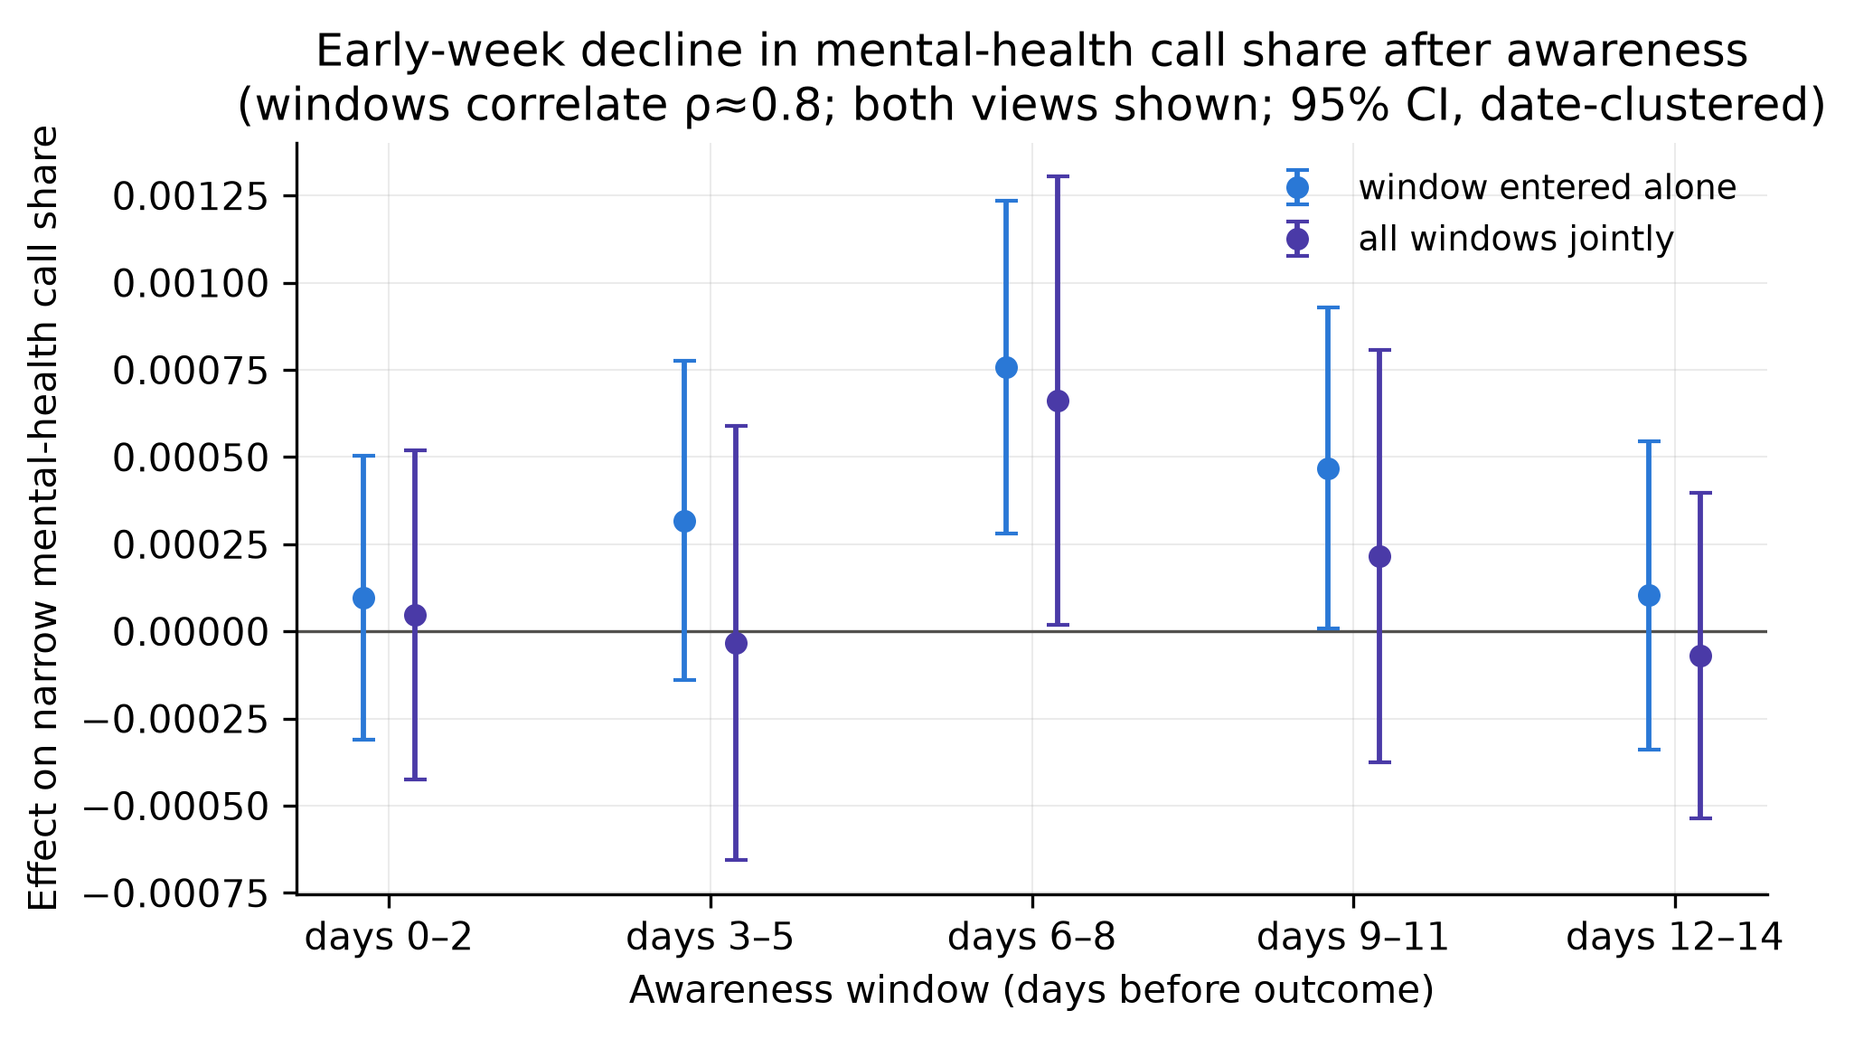
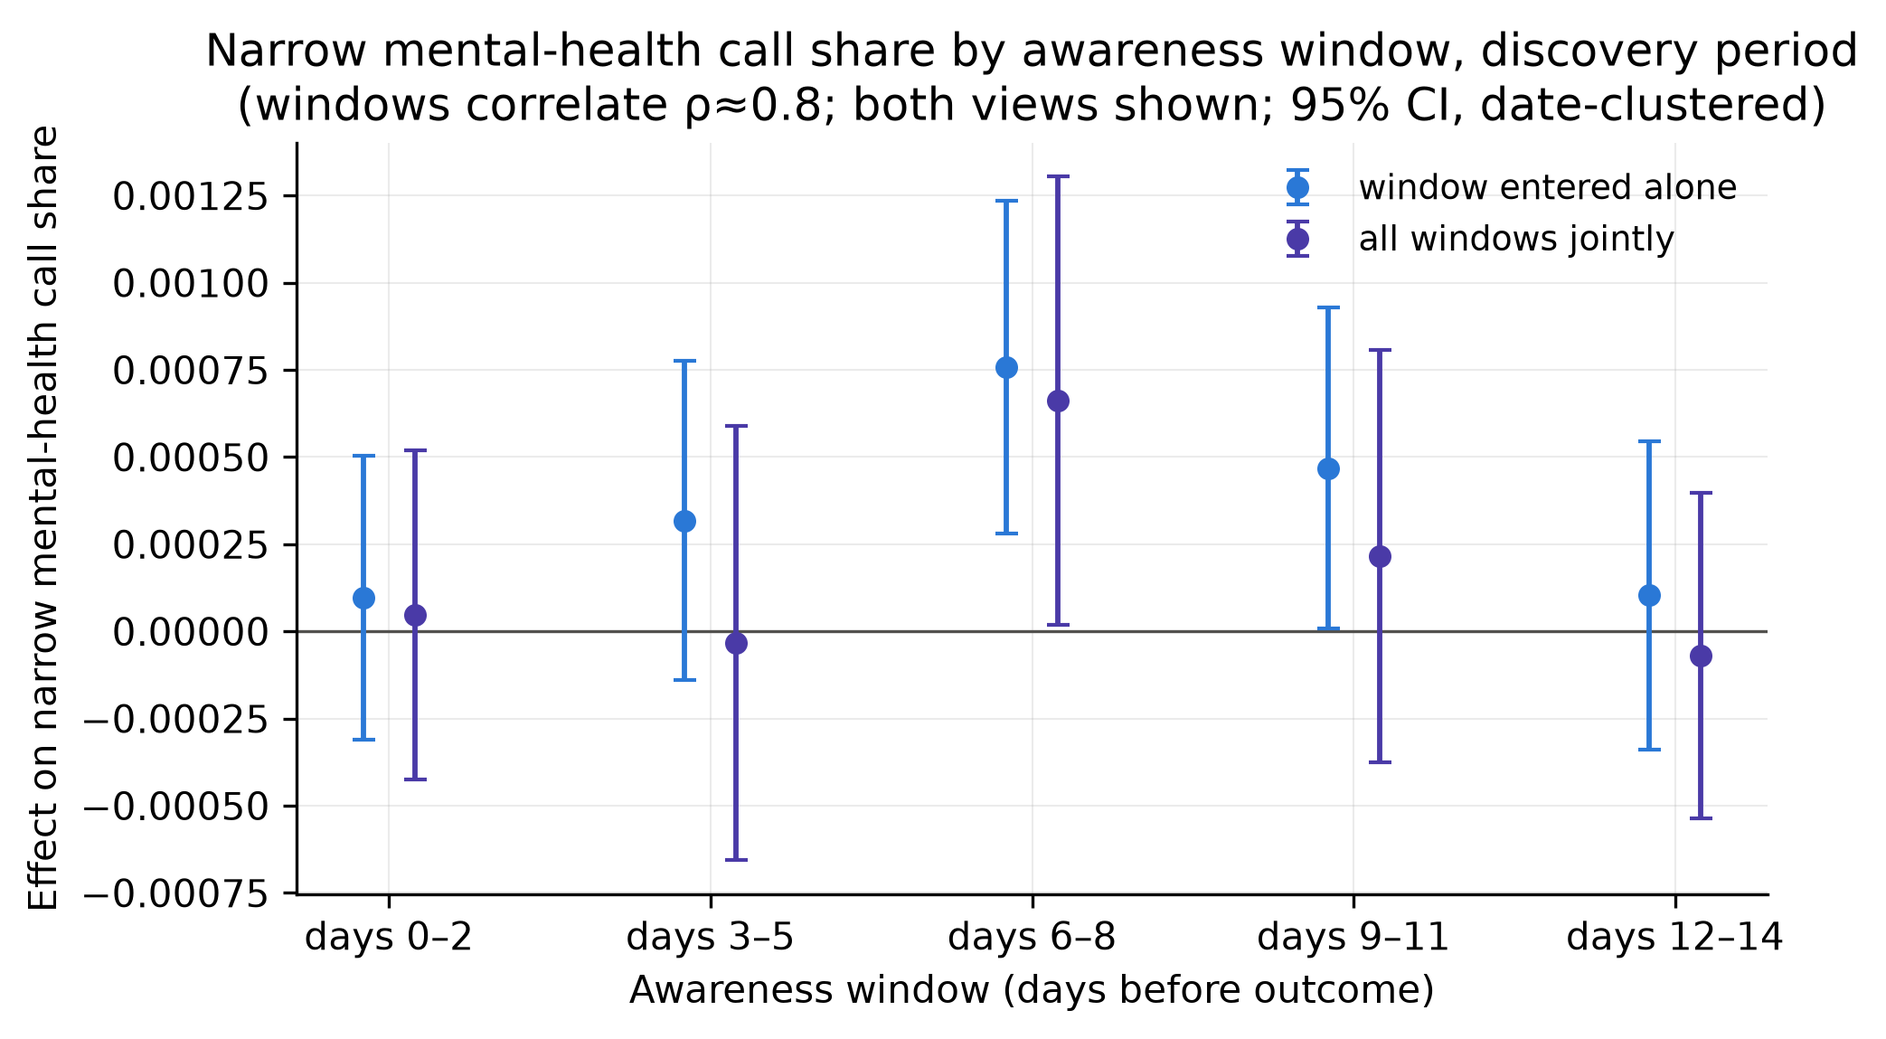
CP3 blind half acted on: PAPER.md's account of the record corrected (five incidents and what two of them shaped, the non-blind test window and second outcome disclosed in Methods, Deviations and Limitation 10, the anchor-shift null described as the gap-permuted placement, the calibration paragraph s

diff --git a/scripts/08_figures.py b/scripts/08_figures.py
@@ -141,7 +141,7 @@ ax.set_xticks(x, [wlabel[w] for w in wn["window"]])
 ax.set_ylabel("Effect on narrow mental-health call share")
 ax.set_xlabel("Awareness window (days before outcome)")
 ax.legend(frameon=False, fontsize=9)
-ax.set_title("Early-week decline in mental-health call share after awareness\n"
+ax.set_title("Narrow mental-health call share by awareness window, discovery period\n"
              "(windows correlate ρ≈0.8; both views shown; 95% CI, date-clustered)")
 save(fig, "fig3_windows")
 
@@ -172,7 +172,7 @@ for y_pos, (col, label) in zip(ys, order):
                     fontsize=8, color=color)
 ax.set_yticks(ys, [label for _, label in order])
 ax.set_xlabel("Effect of awareness (days 3–5 window) on call-type share")
-ax.set_title("The decline is specific to police-adjacent mental-health calls\n"
+ax.set_title("Outcome decomposition, days 3–5 window: effect of awareness by call type\n"
              "(each outcome estimated separately; 95% CI, date-clustered)")
 save(fig, "fig4_decomposition")
 

diff --git a/docs/PAPER.md b/docs/PAPER.md
@@ -31,7 +31,8 @@ arrested or killed to the communities that watch, read and hear about them. A bo
 of population research links exposure to police violence with worse self-reported
 mental health, higher psychological distress and higher psychiatric service use,
 concentrated among Black Americans and in the neighbourhoods policed most
-intensively.¹⁻⁴ The exposure in that literature is almost always an *incident* —
+intensively,¹⁻⁴ and with worse school outcomes for the young people who live
+there.¹⁴ ¹⁵ The exposure in that literature is almost always an *incident* —
 a killing in the respondent's state in the preceding months, a policing rate in the
 respondent's neighbourhood — and the outcome is almost always measured after a
 person has already sought care.
@@ -49,12 +50,17 @@ thirteen cities after the murder of George Floyd while gunshots detected by
 acoustic sensors rose, and attributed the gap between that response and the
 smaller responses to lower-profile killings to salience and media attention.⁶
 Attention, not incidence, is the mechanism those results point at, and neither
-study measured it.
+study measured it. Attention has been measured on its own terms — Wikipedia
+pageviews for earlier victims of police violence surged collectively after the
+murder of George Floyd⁹ — but not, to our knowledge, carried to a health outcome
+at the resolution of a day.
 
 The closest quantified antecedent on the health side is Das and colleagues, who
 found depression-related emergency department visits among African Americans
 rose by about 11% in the month of a police killing of an unarmed African American
-and the three months following, across 75 counties.⁷ Their design, like every
+and the three months following, across 75 counties⁷ — a class of finding whose
+sensitivity to how victims' armed status is coded has since been contested.⁸ Their
+design, like every
 administrative-outcome study we know of, works at the county-month. It therefore
 cannot say whether the response peaks on the first day or the twentieth, whether
 it is a sustained shift or a dip that rebounds, or whether what changed was
@@ -82,8 +88,12 @@ sample was examined, predicted a decline; the test is two-sided, so a rise is a
 rejection of the null in the direction opposite to prediction and is reported as
 such. The design splits the decade into an exploratory period, examined freely,
 and two sealed confirmatory periods on which every specification, hypothesis,
-sensitivity and interpretation rule was written down before any outcome value was
-seen.
+sensitivity and interpretation rule was written down before any confirmation-period
+outcome value was seen — with the exceptions the record numbers and this paper
+discloses: the second primary outcome and the joint first-week statistic were
+adopted after discovery results had been seen, and one code in the primary
+outcome's family was retained on the strength of confirmation-period counts read
+in a disclosed breach of the freeze (Methods, Limitations).
 
 ---
 
@@ -112,9 +122,15 @@ the calibration precondition, the sensitivity battery, the multiple-testing fami
 and the rules for reading every possible result were committed to the repository
 in dated documents before the freeze was lifted (`docs/CONFIRMATION_PLAN.md`,
 `docs/PRE_ANALYSIS_NOTE.md`); every deviation from the originally frozen text is
-listed there and summarised below. Three occasions on which confirmation-period
-outcome data were touched before the freeze lifted are disclosed in *Limitations*
-and in the plan; none entered a model or a test of the hypothesis.
+listed there and summarised below. Five occasions on which confirmation-period
+outcome data were touched — four before the freeze lifted and one in the gate run
+that verified the lifted state — are disclosed in *Limitations* and in the plan.
+Two of them shaped the analysis: the EDPM code's membership of the primary
+outcome's family was retained on confirmation-period precinct counts read in one
+of them, and the district weights behind the B-HEARD covariate were counted from
+confirmation-period dispatches in another; one fitted the primary specification
+on the confirmation sample once and printed only the largest difference between
+two coefficient vectors. No test of the hypothesis was read from any of them.
 
 ### Setting
 
@@ -149,14 +165,15 @@ a sample rescaled to each request window; the stitching diagnostics are committe
 
 **Demographics.** American Community Survey 2015–2019 five-year estimates by
 community district (New York City Department of City Planning), used only to
-describe the setting and to classify districts for the pre-specified heterogeneity
-analysis.
+describe the setting and to classify districts for an exploratory heterogeneity
+analysis by racial composition (not pre-specified; its hypothesis was formed from
+discovery results).
 
 **B-HEARD adoption.** The precinct-by-precinct rollout dates of New York City's
 Behavioral Health Emergency Assistance Response Division, which from 1 June 2021
 diverts some mental-health 911 calls from a police response, compiled from
 Mayor's Office announcements and validated against the Independent Budget Office's
-2026 precinct-level report (31 precincts; adoption dates carried as an earliest
+2026 precinct-level report¹² (31 precincts; adoption dates carried as an earliest
 and a latest bound because 17 of 31 rest on low-confidence evidence), mapped to
 community districts through a crosswalk built from the dispatch data's own
 precinct and district fields.
@@ -263,22 +280,28 @@ inference: the episode start dates are relocated to placebo dates that preserve
 the real episodes' spacing, the estimator is re-run, and the p-value is
 (1 + *k*)/(1 + *n*) where *k* is the number of *n* = 2,000 placebo statistics at
 least as large as the observed one. Where a stratum is a single contiguous
-calendar block (discovery, C2) the whole sequence is shifted by one uniformly
-drawn anchor; where it is two blocks (C1) one circular shift is drawn within each
-block so that the number of episodes per block is preserved on every draw. On a
-single block the two schemes are identical. The asymptotic joint-Wald p-value is
+calendar block (discovery, C2) one anchor is drawn uniformly and the real
+episodes' inter-episode gaps are laid down from it in a random order, so the
+multiset of gaps — and with it the clustering — is preserved on every draw while
+their sequence is not; where a stratum is two blocks (C1) one circular shift is
+drawn within each block so that the number of episodes per block is preserved on
+every draw. The two schemes are differently constructed nulls, each certified on
+its own geometry. The asymptotic joint-Wald p-value is
 reported beside the randomization p-value and never instead of it, because on
 these data formula-based inference has proved anti-conservative. The run draws
 exactly the pre-specified 2,000 placebos and writes its result to a tracked
 file once.
 
 **Calibration precondition.** Before any p-value is reported for a stratum, the
-full estimator and randomization procedure is run on 1,000 synthetic panels (200
-for the descriptive pooled sample) built
-to contain no effect but carrying the real panel's serial dependence, district
-levels, day-of-week pattern and a citywide day shock, on that stratum's own
+share-arm estimator (without the B-HEARD covariate) and the randomization
+procedure are run, at 200 placebo draws per simulation, on 1,000 synthetic panels
+(200 for the descriptive pooled sample) built to contain no effect but carrying
+the serial dependence, district levels, day-of-week pattern and citywide day
+shock measured on the discovery rows of the real panel, on that stratum's own
 episode geometry and draw scheme — separately for C1, C2 and the pooled sample,
-whose three-window geometry is its own null. The stratum's p-values are reported only if
+whose three-window geometry is its own null. The count arm, the narrow
+mental-health outcome, the covariate and the sealed run's 2,000-draw resolution
+are not separately certified; the plan states this as a limitation. The stratum's p-values are reported only if
 the empirical rejection rate at α = 0.05 lies inside its binomial band and the
 p-values are uniform against the exact discrete lattice of (1 + *k*)/(1 + *n*)
 by a Kolmogorov–Smirnov test with a simulated null. The confirmatory script
@@ -289,9 +312,11 @@ randomization p-values flagged uncertified and excluded from the family
 decision; its primary inference is then the asymptotic p, labelled, and a
 rejection on it cannot count as confirmation.
 
-**Multiple testing.** The pre-specified primary family is two outcomes (EDP
-share, narrow mental-health share) × two arms (share, count) × two strata (C1,
-C2) = eight tests, controlled by Benjamini–Hochberg at *q* = 0.05. The pooled
+**Multiple testing.** The primary family — fixed before the freeze lifted, though
+its second outcome and its joint statistic were adopted after discovery results
+had been seen (Deviations) — is two outcomes (EDP share, narrow mental-health
+share) × two arms (share, count) × two strata (C1, C2) = eight tests, controlled
+by Benjamini–Hochberg at *q* = 0.05. The pooled
 estimate (a re-description of the same eight), the sensitivities (robustness
 readings of tests already in the family), the B-HEARD interaction (secondary,
 asymptotic p-value only) and the falsification outcomes are outside the family,
@@ -361,11 +386,14 @@ hash seed the byte-reproducible pipeline requires, and writes each cell's
 day-by-day coefficient path so a rejection without a consistent direction can be
 shown without a second read.
 
-**Exploratory analyses.** Discovery-period estimates, an outcome decomposition
-across eight dispatch families and three post-episode windows (65 tests under a
-Bonferroni threshold), heterogeneity by district racial composition, and a
-distributed-lag specification are reported as exploratory and are not tests of
-the hypothesis.
+**Exploratory analyses.** Discovery-period estimates and an outcome
+decomposition across thirteen outcomes in four dispatch families and five
+three-day windows (65 tests under a Bonferroni threshold) are reported as
+exploratory and are not tests of the hypothesis. A heterogeneity analysis by
+district racial composition, whose hypothesis was formed from discovery results,
+and a distributed-lag specification of the continuous attention index were also
+estimated on the discovery period; their tables are in the repository and, apart
+from the impulse-response figure, they are not reported here.
 
 **Software and reproducibility.** Python 3.11 with pyfixest; every table and
 figure regenerates from the committed repository by one driver script that
@@ -377,8 +405,13 @@ artifact.
 
 Disclosed in full, with dates and original wording, in `docs/CONFIRMATION_PLAN.md`.
 The material ones: the episode construct changed from a regime rule to a shock
-rule with a within-year threshold (blind to outcomes); the test window moved from
-days 0–5 to days 0–7 when the estimator was rebuilt; the attention index lost its
+rule with a within-year threshold (blind to outcomes); the frozen one-sided test
+of the EDP share on days 0–5 became a two-sided joint statistic on days 0–7 with
+a second primary outcome, the narrow mental-health share — both adopted after
+discovery-period results had been seen and therefore not blind, which the plan
+records and discounts (its §14); the stratification into C1 and C2, the eight-test
+family, the both-arms rule and the B-HEARD covariate in every specification were
+decided blind before the lift; the attention index lost its
 Twitter component (undocumented collection, not reproducible) and its New York
 Trends component (censored); the randomization null on C1 was redefined twice,
 finally as a within-block circular shift, because the frozen scheme is undefined
@@ -461,8 +494,9 @@ police-related 911 calls in Milwaukee's Black neighbourhoods after one publicise
 beating;⁵ Ang and colleagues found 911 call volume falling by roughly a quarter
 across thirteen cities after the murder of George Floyd, with comparable declines
 across majority-White, majority-Black and majority-Hispanic neighbourhoods, and
-attributed the size of that response to salience.⁶ Our design speaks to the same
-channel — whether publicised police violence changes the decision to summon
+attributed the size of that response to salience.⁶ Outside policing, the use of crisis services after a publicised mass shooting
+has been studied with a comparable event-study design.¹⁰ Our design speaks to the
+same channel — whether publicised police violence changes the decision to summon
 help — but at the day rather than the month, with the attention that those
 authors invoke as the mechanism measured directly, and with dispatch codes that
 should not respond to news (cardiac, asthma) carried as falsification outcomes
@@ -536,7 +570,7 @@ remains valid for.
    1 July 2015; the `agent=user` definition changed non-retroactively in April
    2020 with a shift that is negligible in discovery and material in 2021–2024,
    which the spliced sensitivity series addresses; Google Trends returns a
-   sample, not a census.
+   sample, not a census, and its reliability across studies is itself contested.¹³
 9. **The freeze was breached five times, four before it lifted and one at the
    lift,** each disclosed: two undeclared metadata reads during automated
    audits, one of which informed a specification decision about the EDPM code;
@@ -553,9 +587,11 @@ remains valid for.
    hypothesis was read from any of them and no number from them was kept; their
    materiality is for the reader to judge and the record is complete
    (`CONFIRMATION_PLAN.md` §15, `PAPER_MASTER.md` §5.3).
-10. **The episode construct and the test window changed after the original
-    freeze**, while blind to outcomes; original wording is preserved and the
-    frozen list is committed byte-identical.
+10. **The episode construct changed after the original freeze** while blind to
+    outcomes; **the test window and the second primary outcome changed after
+    discovery results had been seen** and are not blind — the plan marks them so
+    and discounts them (its §14). Original wording is preserved and the frozen
+    list is committed byte-identical.
 11. **Generalisability.** New York City's density, its unified EMS system and the
     B-HEARD programme are distinctive; the estimates describe this city.
 
@@ -567,16 +603,18 @@ likely understate the response they measure.
 
 ## Display items
 
-1. **Figure 1.** Daily citywide mental-health dispatch share with the attention
-   index beneath, attention episodes marked (solid), COVID emergency and B-HEARD
-   launch dashed, discovery and confirmation periods shaded. `08_figures.py`;
-   tracked copy `docs/figures/fig1_raw_series.png`.
-2. **Figure 2.** Stacked event-study coefficients by relative day, reference day
-   −1 dotted, null line drawn, 95% intervals; both primary outcomes.
-   `docs/figures/fig2_irf_primary.png`; the 14/28/60-day windows in `fig3_windows.png`.
-3. **Figure 3.** Outcome decomposition forest plot across the eight dispatch
-   families with falsification outcomes blocked visually — *carries the argument*.
-   `docs/figures/fig4_decomposition.png`.
+1. **Figure 1.** Daily citywide narrow mental-health dispatch share with the
+   attention index beneath over the discovery period (2017–2020), attention
+   episodes shaded and the COVID emergency marked. `08_figures.py`; tracked copy
+   `docs/figures/fig1_raw_series.png`.
+2. **Figure 2.** Impulse response of the narrow mental-health share to the
+   continuous attention index by relative day, leads shown as a pre-trend check,
+   95% intervals (distributed-lag specification, exploratory; discovery period).
+   `docs/figures/fig2_irf_primary.png`. `fig3_windows.png` shows the same share by
+   three-day awareness window, each window entered alone and all jointly.
+3. **Figure 3.** Outcome decomposition: the days 3–5 window's coefficient for
+   each of seven dispatch shares, falsification outcomes in grey (discovery
+   period, each outcome estimated separately). `docs/figures/fig4_decomposition.png`.
 4. **Table 1.** The episode list: start, end, peak, registry label, driver label
    with share, stratum, and the frozen-versus-adopted difference. Generated from
    the two episode lists by `ops/paper_table1.py` as `docs/tables/TABLE1_episodes.md`
@@ -597,7 +635,7 @@ sensitivity grid; the audit register.
 |---|---|---|
 | RECORD 1.1–1.3 | Data type, database name, geography, timeframe, linkage in title and abstract | Title; Abstract (names NYC EMS Incident Dispatch Data, New York City, 2015–2024, linkage to community districts and to the attention index) |
 | RECORD 6.1 | Codes/algorithms used to identify the population | Methods, *Outcome*: the EDP family and the narrow mental-health family, code by code |
-| RECORD 6.2 | Validation of those codes | Kang, Lu & Pang (2026, *Psychiatric Services*) classify mental-health EMS calls on this dataset; we differ by disaggregating call families and by handling the mid-2018 EDPC recode explicitly |
+| RECORD 6.2 | Validation of those codes | No external validation of the dispatch codes exists yet: Kang, Lu & Pang (2026, *Psychiatric Services*)¹¹ work on the same dataset, and a comparison of their classification with ours (which disaggregates call families and handles the mid-2018 EDPC recode explicitly) is pending |
 | RECORD 6.3 | Linkage flow | Supplement figure: dispatch → district; precinct → district crosswalk |
 | RECORD 7.1 | Complete code list | Supplement table: every code, family, first and last date |
 | RECORD 12.1 | Data cleaning | Methods, *Outcome*; disposition filter (finding O1) in the plan |
@@ -623,6 +661,6 @@ sensitivity grid; the audit register.
 10. Weitzel KJ, Chew RF, Miller AB, Oppenheimer CW, Lowe A, Yaros A. The use of crisis services following the mass school shooting in Uvalde, Texas: quasi-experimental event study. *JMIR Public Health Surveill*. 2023;9:e42811.
 11. Kang, Lu, Pang. An EMS-based crisis response model for mental health-related EMS calls: a quasi-experimental study. *Psychiatr Serv*. 2026. doi:10.1176/appi.ps.20250528.
 12. New York City Independent Budget Office. *B-HEARD: a look at precinct level data*. 2026.
-13. Hölzl, Keusch, Sajons. [Google Trends reliability across 360 studies.] *Soc Sci Res*. 2025;126:103099.
+13. Hölzl, Keusch, Sajons. [Systematic review of Google Trends use across 360 studies; title to be confirmed against the source before submission.] *Soc Sci Res*. 2025;126:103099.
 14. Ang D. The effects of police violence on inner-city students. *Q J Econ*. 2021;136(1):115-168.
 15. Legewie J, Fagan J. Aggressive policing and the educational performance of minority youth. *Am Sociol Rev*. 2019;84(2):220-247.

diff --git a/docs/EXECUTION_PLAN.md b/docs/EXECUTION_PLAN.md
@@ -1103,6 +1103,23 @@ Committed and pushed at `0eaf45d`.
   stop command greps for the worker processes by a bracketed pattern; a grep for
   the script's own name in a command whose text contains it kills the shell
   running it (the `pgrep -f` lesson in another form).
+- **CP3, blind half (wf_f6cc235c, 15:24–16:35Z)**: five finders on the parts of
+  the manuscript that do not depend on the confirmatory result, three-lens
+  refuters, a critic; 38 raw, 9 confirmed (all in PAPER.md's account of the
+  record: the Methods counted three freeze breaches and said none entered a model;
+  Limitation 10 called the test-window change blind; the anchor-shift null was
+  described as a rigid shift and the two schemes as identical on one block; the
+  calibration paragraph said "the full estimator" was certified; the family and
+  the Introduction called everything pre-specified without the §14 exceptions), 8
+  critic items (fig3/fig4 titles asserting a decline the discovery result does
+  not show; Figure 1–3 captions describing other figures; the decomposition's
+  dimensions misstated; heterogeneity called pre-specified and announced as
+  reported; RECORD 6.2 and reference 13 resting on unread sources; six references
+  uncited; the main text over the venue's word budget). Every item but the word
+  budget fixed in PAPER.md and 08_figures.py (titles neutralised, tracked
+  figures refreshed) with the gate clean; the word budget (about 6,200 words
+  before the references, Methods about 3,200) is left for the author's editorial
+  pass after the Results and Discussion are written.
 - **15:23:54Z: relaunched with three workers** (start row 5) while the run is on
   C2's cells: two workers held 1.9 and 2.6 GB with 9.7 GB free, and at two
   workers the remaining C2 and pooled cells projected to more than twenty hours.
